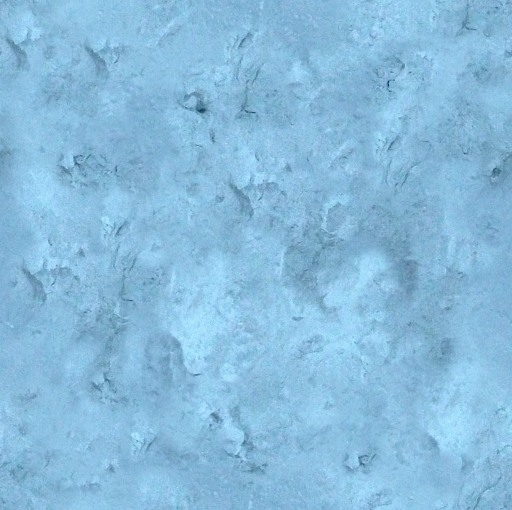
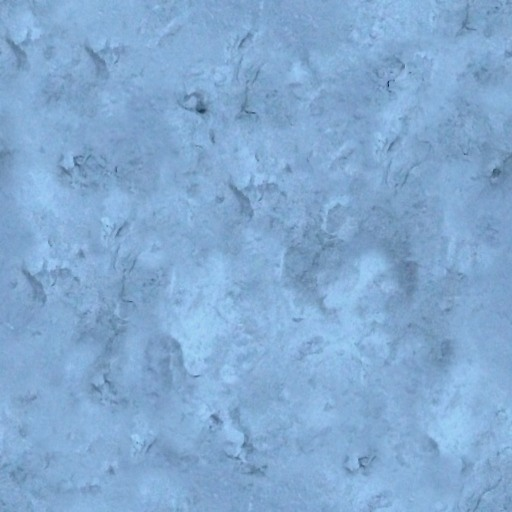
Texture changes, authors.txt structure, fixed #160, ControlJump for attached objects

diff --git a/planet/Objects.c4d/Libraries.c4d/ClonkControl.c4d/Script.c b/planet/Objects.c4d/Libraries.c4d/ClonkControl.c4d/Script.c
@@ -358,7 +358,7 @@ public func ObjectControl(int plr, int ctrl, int x, int y, int strength, bool re
 {
 	if (!this) return false;
 	
-	//Log(Format("%d, %d, %s, repeat: %v, release: %v",  x,y,GetPlayerControlName(ctrl), repeat, release));
+	//Message(Format("%d, %d, %s, strength: %d, repeat: %v, release: %v",  x,y,GetPlayerControlName(ctrl), strength, repeat, release),this);
 	
 	// aiming with mouse
 	if(using && ctrl == CON_Aim)
@@ -757,7 +757,7 @@ private func Control2Script(int ctrl, int x, int y, int strength, bool repeat, b
 	}
 	
 	// overloads of movement commandos
-	else if (ctrl == CON_Left || ctrl == CON_Right || ctrl == CON_Down || ctrl == CON_Up)
+	else if (ctrl == CON_Left || ctrl == CON_Right || ctrl == CON_Down || ctrl == CON_Up || ctrl == CON_Jump)
 	{
 		if (release)
 		{
@@ -771,6 +771,10 @@ private func Control2Script(int ctrl, int x, int y, int strength, bool repeat, b
 			if (ctrl == CON_Right) if (obj->Call(Format("~%sRight",control),this)) return true;
 			if (ctrl == CON_Up)    if (obj->Call(Format("~%sUp",control),this))    return true;
 			if (ctrl == CON_Down)  if (obj->Call(Format("~%sDown",control),this))  return true;
+			
+			// for attached (e.g. horse: also Jump command
+			if(GetProcedure() == "ATTACH")
+				if (ctrl == CON_Jump)  if(obj->Call("ControlJump",this)) return true;
 		}
 	}
 	

diff --git a/planet/Objects.c4d/Items.c4d/Tools.c4d/Boompack.c4d/Script.c b/planet/Objects.c4d/Items.c4d/Tools.c4d/Boompack.c4d/Script.c
@@ -1,8 +1,14 @@
 /*--
 	Boompack
-	Author: Ringwaul
+	Authors: Ringwaul, Newton
 
-	A risky method of flight.
+	A risky method of flight. When the boompack is used and launched towards
+	the sky, the category of the boompack is changed to be a vehicle and set
+	to be non-collectible. The clonk is then attached to the boompack. While
+	he is attached, he has more control over it than if it were just in his
+	inventory: The ControlLeft/Right/Up/Down callbacks are issued to the boom-
+	pack too. Here, they are used to slightly steer the boompack to the left
+	or right plus to jump off the rocket. 
 --*/
 
 local fuel;
@@ -43,7 +49,7 @@ func ControlStop()
 	return true;
 }
 
-func ControlUp(object clonk)
+func ControlJump(object clonk)
 {
 	JumpOff(clonk,60);
 	return true;

diff --git a/src/gui/C4Viewport.cpp b/src/gui/C4Viewport.cpp
@@ -879,6 +879,20 @@ void C4Viewport::DrawOverlay(C4TargetFacet &cgo, const ZoomData &GameZoom)
  	C4ST_STARTNEW(MsgStat, "C4Viewport::DrawOverlay: Messages")
 	::Messages.Draw(cgo, Player, Zoom);
 	C4ST_STOP(MsgStat)
+
+	// Control overlays (if not film/replay)
+	if (!Game.C4S.Head.Film || !Game.C4S.Head.Replay)
+		{
+		// Mouse control
+		if (::MouseControl.IsViewport(this))
+			{
+			C4ST_STARTNEW(MouseStat, "C4Viewport::DrawOverlay: Mouse")
+			::MouseControl.Draw(cgo, GameZoom);
+			// Draw GUI-mouse in EM if active
+			if (pWindow && ::pGUI) ::pGUI->RenderMouse(cgo);
+			C4ST_STOP(MouseStat)
+			}
+		}
 	}
 
 void C4Viewport::DrawMenu(C4TargetFacet &cgo)

diff --git a/planet/Objects.c4d/HUD.c4d/Elements.c4d/Bars.c4d/Script.c b/planet/Objects.c4d/HUD.c4d/Elements.c4d/Bars.c4d/Script.c
@@ -1,5 +1,3 @@
-#strict 2
-
 /*
 	Progress-Bar element
 	Author: Newton

diff --git a/planet/Objects.c4d/HUD.c4d/Elements.c4d/CrewSelector.c4d/Script.c b/planet/Objects.c4d/HUD.c4d/Elements.c4d/CrewSelector.c4d/Script.c
@@ -1,4 +1,3 @@
-#strict 2
 #include BAR0
 
 /*
